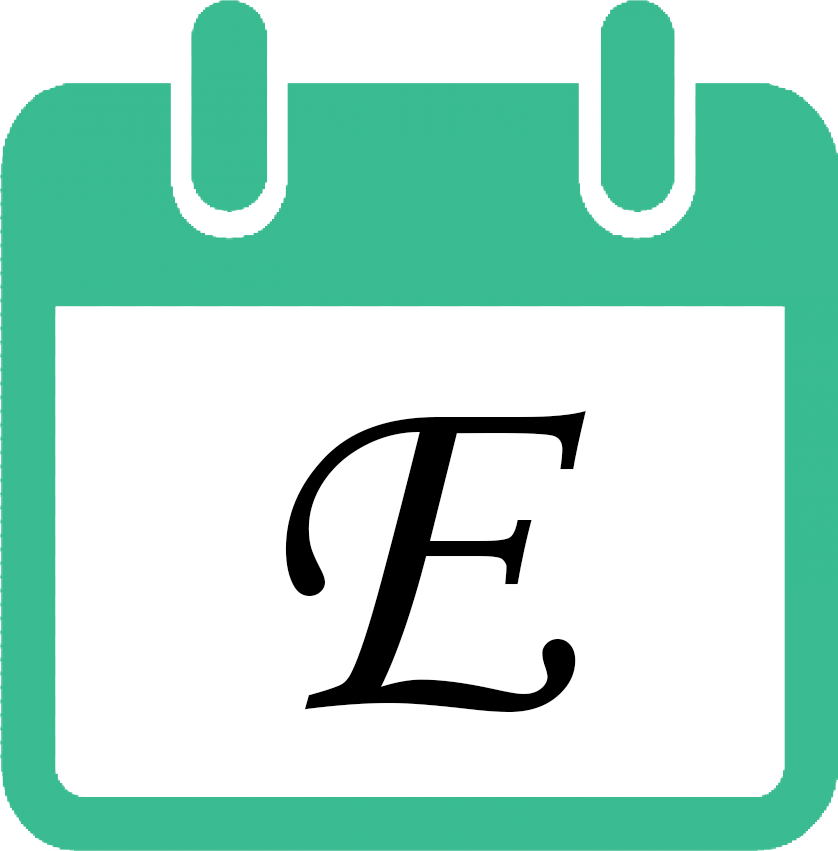
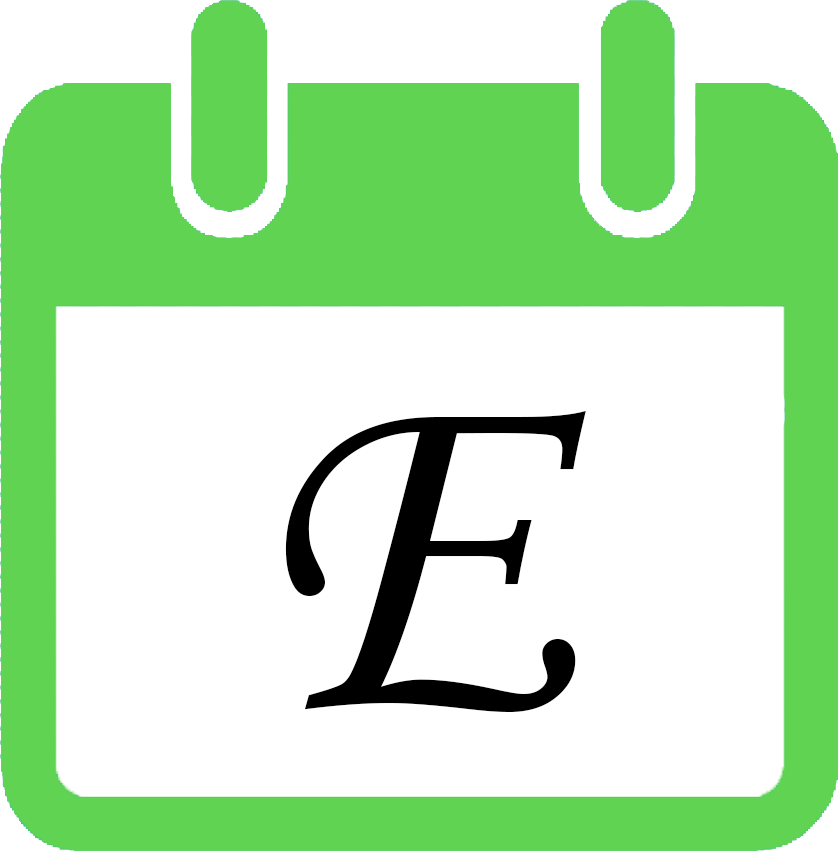
css style update

diff --git a/web_aplication/eveldar/resources/sass/_navbar.scss b/web_aplication/eveldar/resources/sass/_navbar.scss
@@ -1,7 +1,7 @@
 .navbar, .nav {
     width: 100%;
     font-size: 14px;
-    background-color: #60D452;
+    background-color: $background;
     padding-left: 3px;
 }
 
@@ -28,11 +28,12 @@
     padding-bottom: 10px;
 }
 .nav-item .nav-link{
-    background-color: #0C4705;
+    background-color: $item-background;
     -webkit-box-shadow: 0px 0px 16px 3px rgba(0,0,0,0.3); 
     box-shadow: 0px 0px 16px 3px rgba(0,0,0,0.3);
 }
 .nav-item a{
-    color:#1FD409
+    color:$text;
 }
+
 

diff --git a/web_aplication/eveldar/resources/sass/_main.scss b/web_aplication/eveldar/resources/sass/_main.scss
@@ -6,3 +6,16 @@ body{
     -webkit-box-shadow: 0px 0px 27px 0px rgba(0,0,0,0.48); 
     box-shadow: 0px 0px 27px 0px rgba(0,0,0,0.48);
 }
+
+.btn {
+    background-color: $btn-background;
+    color: $btn-text;
+}
+.error-msg{
+    font-size: 14px;
+    color: $error;
+}
+
+.form-error{
+    border-color: $error;
+}

diff --git a/web_aplication/eveldar/resources/sass/_myvariables.scss b/web_aplication/eveldar/resources/sass/_myvariables.scss
@@ -1,0 +1,8 @@
+$error:#d10000;
+$success:#00A708;
+$btn-background:#0C4705;
+$btn-text:#1FD409;
+$navbar-background:#3abb91;
+$navitem-background:#0C4705;
+$nav-text:#1FD409;
+

diff --git a/web_aplication/eveldar/resources/sass/app.scss b/web_aplication/eveldar/resources/sass/app.scss
@@ -5,6 +5,7 @@
 
 // Variables
 @import 'variables';
+@import 'myvariables';
 
 // Bootstrap
 @import '~bootstrap/scss/bootstrap';

diff --git a/web_aplication/eveldar/resources/views/auth/register.blade.php b/web_aplication/eveldar/resources/views/auth/register.blade.php
@@ -17,32 +17,57 @@
             </div>
         </div>
         <div class="col p-5 text-center">
-            <form>
+            <form action="{{ route('register') }}" method="POST">
+                @csrf
                 <div class="mb-3">
                     <label class="form-label">Név*</label>
-                    <input type="email" class="form-control" id="name" aria-describedby="emailHelp">
+                    <input type="text" class="form-control @error('name') form-error @enderror" name="name" aria-describedby="emailHelp" value="{{ old('name') }}">
+                    @error('name')
+                        <div class="error-msg">
+                            A név mező kitöltése kötelező
+                        </div>
+                    @enderror
                 </div>
                 <div class="mb-3">
                     <label class="form-label">Email cím*</label>
-                    <input type="email" class="form-control" id="email" aria-describedby="emailHelp">
+                    <input type="email" class="form-control @error('email') form-error @enderror" name="email" aria-describedby="emailHelp" value="{{ old('email') }}">
+                    @error('email')
+                        <div class="error-msg">
+                            Az E-mailcím kitöltése kötelező
+                        </div>
+                    @enderror
                 </div>
                 <div class="mb-3">
-                    <label class="form-label">Másodlagos email cím</label>
-                    <input type="email" class="form-control" id="secound_email" aria-describedby="emailHelp">
+                    <label for="password" class="sr-only">Jelszó</label>
+                    <input type="password" name="password" id="password" class="form-control @error('password') form-error @enderror" value="">
+
+                    @error('password')
+                        <div class="error-msg">
+                            A jelszó kitöltése kötelező!
+                        </div>
+                    @enderror
                 </div>
                 <div class="mb-3">
-                    <label class="form-label">Jelszó*</label>
-                    <input type="password" class="form-control" id="password">
-                </div>
-                <div class="mb-3">
-                    <label class="form-label">Jelszó megerősítése*</label>
-                    <input type="password" class="form-control" id="password_confim">
+                    <label for="password_confirmation" class="sr-only">Jelszó megerősítés</label>
+                    <input type="password" name="password_confirmation" id="password_confirmation" class="form-control @error('password_confirmation') form-error @enderror" value="">
+
+                    @error('password_confirmation')
+                        <div class="error-msg">
+                            A két jelszó nem egyezik!
+                        </div>
+                    @enderror
                 </div>
                 <div class="mb-3 form-check">
-                    <input type="checkbox" class="form-check-input" id="aszf">
-                    <label class="form-check-label"> Elfogadod az oldalra vonatkozó <a href="#"> ASZF</a>-et? * </label>
+                    <input type="checkbox" class="form-check-input" name="aszf">
+                    <label class="form-check-label @error('aszf') form-error @enderror"> Elfogadod az oldalra vonatkozó <a href="#"> ASZF</a>-et? * </label>
+                    @error('aszf')
+                        <div class="error-msg">
+                            Kérlek olvasd el és fogadd el az Álltalános Szerződési Feltételeket!
+                        </div>
+                    @enderror
                 </div>
-                <button type="submit" class="btn btn-primary">Regisztráció</button>
+                <input type="hidden" name="user_status_id" value="1"></label>
+                <button type="submit" class="btn">Regisztráció</button>
             </form>
         </div>
         <div class="col p-5 text-center">

diff --git a/web_aplication/eveldar/routes/web.php b/web_aplication/eveldar/routes/web.php
@@ -1,6 +1,7 @@
 <?php
 
 use Illuminate\Support\Facades\Route;
+use App\Http\Controllers\Auth\RegisterController;
 
 /*
 |--------------------------------------------------------------------------
@@ -16,9 +17,13 @@ use Illuminate\Support\Facades\Route;
 Route::get('/', function () {
     return view('about');
 });
+
 Route::get('/about', function(){
     return view('about');
 })->name('about');
-Route::get('/register', function(){
+
+/*Route::get('/register', function(){
     return view('auth.register');
-})->name('register');
+})->name('register');*/
+Route::get('/register', [RegisterController::class, 'index'])->name('register');
+Route::post('/register', [RegisterController::class, 'store']);

diff --git a/web_aplication/eveldar/resources/views/layouts/main.blade.php b/web_aplication/eveldar/resources/views/layouts/main.blade.php
@@ -45,12 +45,12 @@
     <div class="nav-right-side">
         <li class="nav-item">
         <form action="{{ route('register') }}" method="GET" class="form-inline">
-            <button class="btn btn-primary" type="submit">Regisztráció</button>
+            <button class="btn" type="submit">Regisztráció</button>
         </form>
         </li>
         <li class="nav-item">
         <form action="" method="GET" class="form-inline">
-            <button class="btn btn-primary" type="submit">Bejelentkezés</button>
+            <button class="btn" type="submit">Bejelentkezés</button>
         </form>
         </li>
     </div>
